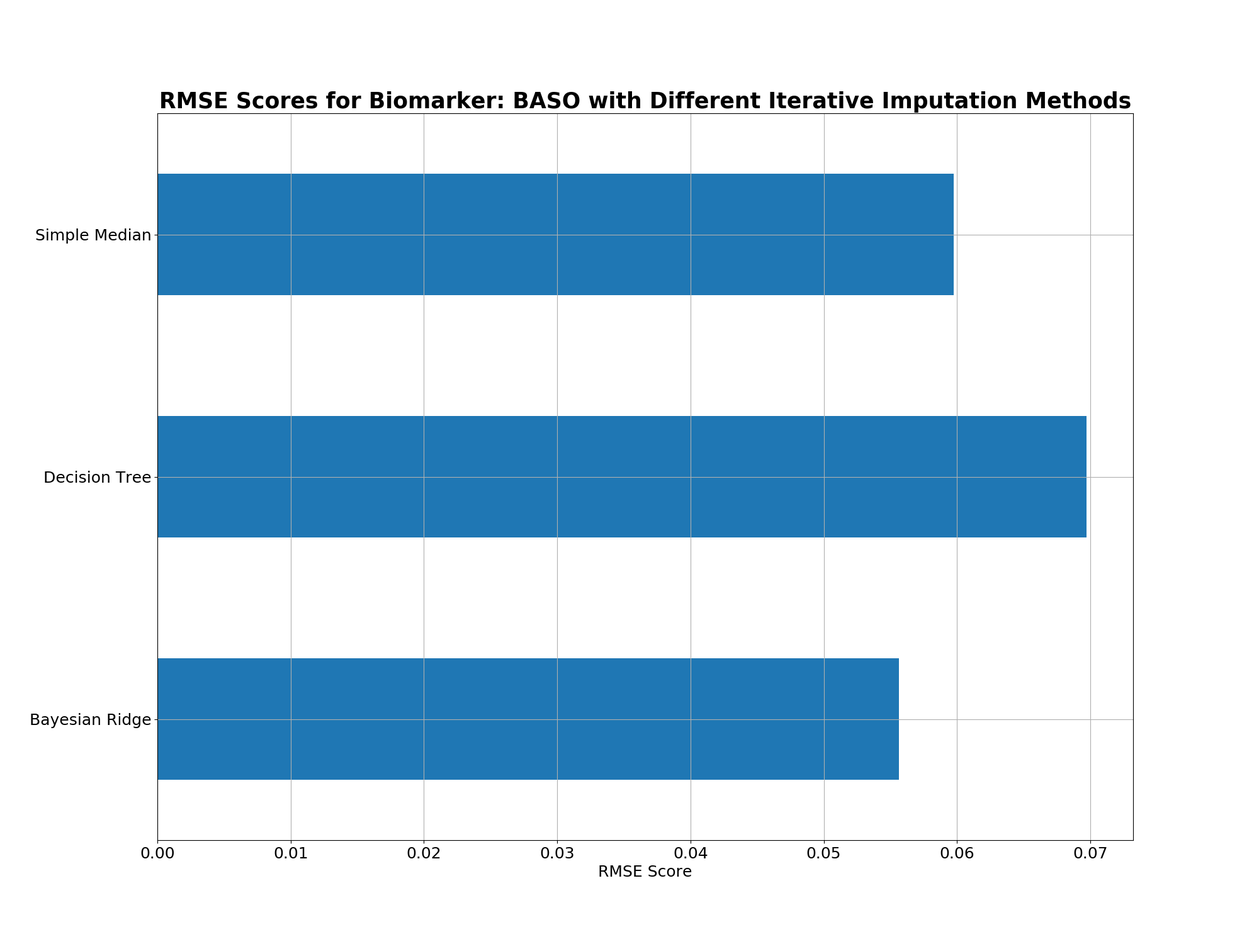
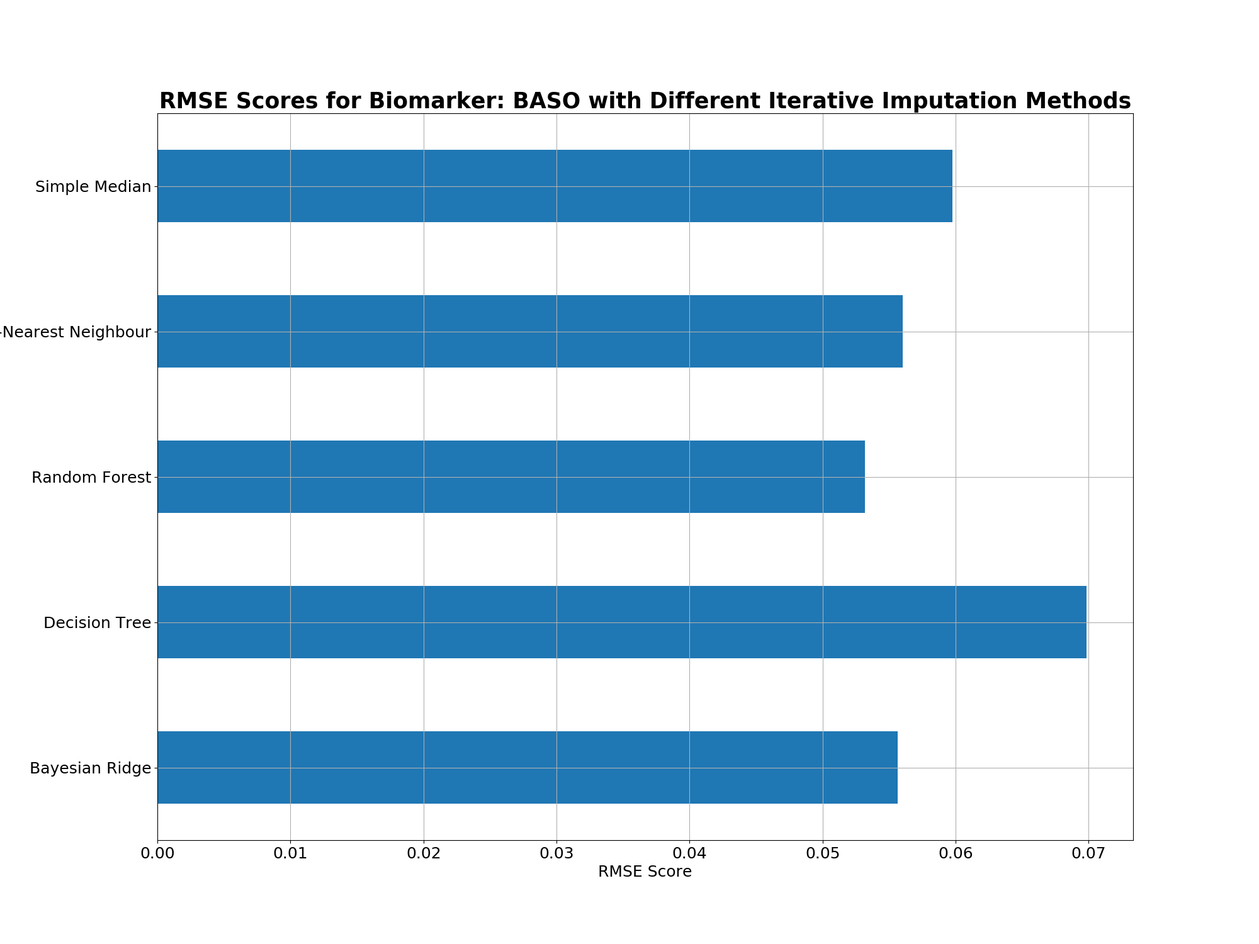
Iterative Imputer Exp I: Added RF and KNN

diff --git a/docs/searchindex.js b/docs/searchindex.js
@@ -1,1 +1,1 @@
-Search.setIndex({docnames:["_examples/iterative_imputer/index","_examples/iterative_imputer/plot_iter_imputer_exp1","_examples/iterative_imputer/sg_execution_times","_examples/load_dataset/index","_examples/load_dataset/plot_biomarkers_dist","_examples/load_dataset/plot_corr_networks","_examples/load_dataset/sg_execution_times","_examples/tutorial/index","_examples/tutorial/plot_greetings_01","_examples/tutorial/plot_sample_01","_examples/tutorial/plot_sample_02","_examples/tutorial/sg_execution_times","_examples/widgets/index","_examples/widgets/plot_tidy","_examples/widgets/sg_execution_times","index","tutorials/setup"],envversion:{"sphinx.domains.c":2,"sphinx.domains.changeset":1,"sphinx.domains.citation":1,"sphinx.domains.cpp":3,"sphinx.domains.index":1,"sphinx.domains.javascript":2,"sphinx.domains.math":2,"sphinx.domains.python":2,"sphinx.domains.rst":2,"sphinx.domains.std":1,"sphinx.ext.todo":2,sphinx:56},filenames:["_examples\\iterative_imputer\\index.rst","_examples\\iterative_imputer\\plot_iter_imputer_exp1.rst","_examples\\iterative_imputer\\sg_execution_times.rst","_examples\\load_dataset\\index.rst","_examples\\load_dataset\\plot_biomarkers_dist.rst","_examples\\load_dataset\\plot_corr_networks.rst","_examples\\load_dataset\\sg_execution_times.rst","_examples\\tutorial\\index.rst","_examples\\tutorial\\plot_greetings_01.rst","_examples\\tutorial\\plot_sample_01.rst","_examples\\tutorial\\plot_sample_02.rst","_examples\\tutorial\\sg_execution_times.rst","_examples\\widgets\\index.rst","_examples\\widgets\\plot_tidy.rst","_examples\\widgets\\sg_execution_times.rst","index.rst","tutorials\\setup.rst"],objects:{},objnames:{},objtypes:{},terms:{"000":6,"001":13,"002":13,"003":13,"004":13,"004126":1,"004903":1,"011264":1,"012952":1,"021":[1,2],"034001":1,"049":[10,11],"051146":1,"054":[9,11],"055639":1,"057":[8,11],"059771":1,"069726":1,"083004":1,"086162":5,"092396":1,"092678":1,"093414":1,"093716":1,"093729":1,"103283":1,"104":1,"114509":1,"116486":1,"118":1,"120":[9,10],"128196":1,"133":1,"141370":5,"1500":5,"159402":1,"160":11,"162450":5,"174083":5,"175840":5,"180194":1,"181283":1,"200":5,"2020":13,"203782":5,"205640":1,"212157":1,"220":5,"224849":5,"247103":5,"264927":5,"284260":5,"288058":5,"304076":1,"309988":5,"310918":5,"315870":1,"32dx":13,"333753":5,"339476":5,"347":[13,14],"347838":1,"382143":5,"382875":1,"415635":1,"416401":1,"439067":1,"453014":1,"458002":1,"472741":1,"525346":1,"568432":1,"568637":1,"595311":1,"599621":1,"614615":1,"614973":1,"626564":1,"670707":1,"676":4,"771":[5,6],"779967":1,"814143":1,"851352":1,"942473":1,"990355":1,"boolean":13,"case":16,"class":16,"import":[8,9,10,13,16],"new":4,"public":16,"return":[9,10],"true":[1,4,5,13,16],EOS:[1,4,5],For:16,IDE:16,The:16,Then:16,These:16,Ths:16,Use:[1,16],Using:[4,5],__file__:16,_build:16,_exampl:16,_examples_iterative_imput:2,_examples_load_dataset:6,_examples_tutori:11,_examples_widget:14,_uid:[1,4,5],abl:16,about:16,abov:5,abs:4,absolut:[4,16],access:16,across:1,activ:16,actual:16,add:16,addit:16,adjust:5,after:16,age:13,all:[1,4,13,16],alreadi:16,also:16,although:16,alwai:16,ani:[4,16],annot:5,annot_kw:5,appear:16,approach:16,appropri:16,arrai:1,ascend:5,autodoc:16,automat:16,avail:16,axi:[1,4,5],bahp:16,bar:1,barh:1,base:[4,16],baso:[1,4,5],bat:16,bayesian:1,bayesianridg:1,becom:16,been:16,behaviour:16,being:16,below:[7,12,16],bin:[4,5,16],biomark:[3,5,6],biomarkers_data:[1,4,5],biomarkers_df:[1,4,5],biomarkers_df_copi:4,biomarkers_df_wo_outli:4,biomarkers_highest_corr:1,biomarkers_original_df_copi:[1,5],biomarkers_to_drop:1,bit:16,black:[4,5],bold:[1,4,5],bool:5,boxplot:4,branch:16,brief:16,build:[5,16],button:16,calcul:[1,5],call:16,can:16,caption:16,celsiu:13,center:5,cfg:16,chang:16,check:16,clean:[1,16],click:[1,4,5,8,9,10,13,16],clone:16,cmap:5,code:[1,4,5,8,9,10,13],coeffici:[1,5],col:[1,4],col_po:1,color:[4,5],column:[1,4,5,13],com:16,comfort:16,command:16,complet:16,comput:[1,16],conf:16,config:16,configur:[9,16],consol:16,constant:[8,13],contain:16,content:16,convent:16,convert:1,copi:[1,4,5,16],cor:5,core:[8,16],corr:5,corr_mask:5,corr_mat:5,corr_pair:1,correl:[3,6],could:16,creat:[5,8,10,13],css:16,csv:[1,4,5,16],curr_path:16,current:16,damien:8,data:[9,13,16],datablend:13,datafram:[1,4,5,13],dataset:[3,5,6,16],date:13,deactiv:16,decis:1,decisiontreeregressor:1,deep:[1,4,5],def:[9,10],defin:[10,16],densiti:[4,5],denv:13,depend:16,descript:16,develop:16,did:16,differ:[0,1,16],directli:16,directori:16,dirti:16,displai:8,distplot:[4,5],distribut:[3,6],diverging_palett:5,do_someth:16,do_something_els:16,doc:16,don:16,doubl:16,down:16,download:[1,4,5,8,9,10,13],download_all_exampl:16,draw:5,drop:[1,4,5],dropna:[1,4,5],dtype:[5,13],duplic:13,dure:16,each:[5,16],easili:16,edge_color:5,edgecolor:[4,5],effect:16,either:16,els:1,enabl:16,enable_iterative_imput:1,encapsul:16,end:16,ensembl:1,ensur:16,enumer:1,equival:16,evalu:16,everi:[1,16],everyth:16,exampl:[1,4,5,7,8,9,10,12,13,16],examples_dir:16,execut:[2,6,8,11,14,16],exist:16,exp:[9,10],experi:[0,2],experiment:1,extratreesregressor:1,facilit:16,fals:[1,5,13,16],fbc:[1,5],fbc_code:[1,4,5],feel:16,femal:13,figsiz:[1,4,5],figur:[1,4,5],file:[2,6,11,14,16],filenamesortkei:16,filterwarn:[1,4,5],find:[1,16],first:[4,5,10,13,16],fit:1,fix:16,float64:[5,13],folder:16,follow:16,font_siz:5,fontsiz:[1,4,5],fontweight:[1,4,5],forest:1,format:16,format_microbiolog:16,format_patholog:16,frame:5,free:16,from:[3,4,5,8,13],from_pandas_edgelist:5,full:[1,4,5,8,9,10,13],fyp2020:16,fyp:16,galleri:[0,1,3,4,5,8,9,10,13,16],gallery_dir:16,gaussian:[7,11],gca:5,gender:13,gener:[0,1,3,4,5,7,8,9,10,12,13],get:16,get_loc:1,get_xlim:5,get_xticklabel:5,get_ylim:5,get_yticklabel:5,git:16,github:16,graph:[1,3,6,16],green:16,greet:[7,11],grid:[1,5],happi:16,have:16,hct:[1,4,5],heatmap:5,hello:8,help:16,helper:8,here:[1,4,5,8,9,10,13,16],hgb:[1,4,5],hidden:16,high:1,highest:1,hist_kw:[4,5],histogram:5,horizont:1,horizontalalign:5,host:16,how:16,howev:16,html:16,http:16,identifi:16,idx1:5,idx2:5,ignor:[1,4,5],iloc:1,immedi:16,imperi:16,imperial_usernam:16,implement:16,imput:2,imputed_data:1,imputed_data_og:1,imputer_estim:1,includ:[0,16],independ:1,index:[1,13,15,16],initialis:1,inplac:[1,4,5],insid:16,instanc:8,instead:16,int64:13,interest:3,invers:1,inverse_transform:1,ipynb:[1,4,5,8,9,10,13],iqr:4,isol:16,item:1,iter:[2,5],iter_imp:1,iterativeimput:[0,1],iterrow:1,its:16,jupyt:[1,4,5,8,9,10,13],just:16,kde_kw:[4,5],keep:[5,13,16],kf5:1,kfold:1,kneighborsregressor:1,later:16,layout:5,learn:16,let:[10,16],librari:[4,5,8,9,13,16],licenc:16,like:16,line_numb:16,linear_model:1,linewidth:[4,5],link:[5,16],links_filt:5,linspac:[9,10],linux:16,list:[1,4,5,16],load:[9,16],loc:1,look:16,lower_bound:4,machin:16,main:[8,9,13,16],make:[1,16],makefil:16,male:13,manag:16,maria:8,mask:5,matplotlib:[1,4,5,9,10,16],matrix:5,max:1,maxdepth:16,mch:[1,4,5],mchc:[1,4,5],mcv:[1,4,5],mean:[1,5],mean_squared_error:1,median:1,method:[1,4,5,8,9,16],metric:1,microbiolog:16,microbiology_fmt:16,might:16,min:[1,5],min_max_scal:1,min_v:5,minut:[1,4,5,8,9,10,13],miss:16,mkdir:16,model:16,model_select:1,modul:15,mono:[1,4,5],more:16,morn:8,most:16,move:16,mpv:[1,4,5],mse:1,mse_score_df:1,n_split:1,name:[1,8,16],nan:[1,4,5,13],napoleon:16,nbiomark:1,ndtype:13,nduplic:13,need:16,neighbor:1,network:[3,6],neut:[1,4,5],newli:16,node_color:5,node_s:5,none:1,normalis:1,note:16,notebook:[1,4,5,8,9,10,13],nrbca:[1,4,5],nsort:5,nstack:13,ntidi:13,number:16,numpi:[1,4,5,9,10,13,16],object:13,obtain:[1,5],off:5,often:16,onc:16,one:16,ones_lik:5,onli:[4,5],onlin:16,open:16,option:16,orang:5,order:16,other:16,otherwis:16,out:[1,5,8,13],outcom:16,output:16,over:5,own:16,packag:[8,16],page:[15,16],pair:1,panda:[1,4,5,13],panel:[1,5],paramet:[5,13],parent:16,part:16,past:16,path:[1,4,5,16],path_data:[1,4,5,16],path_micro:16,pathlib:16,patholog:16,pathology_fmt:16,pcr_dengue_serotyp:13,pdf:5,pearson:[1,5],peopl:16,perform:16,pid:[1,4,5],pip:16,pkgname:[1,5,8,13,16],pleas:16,plot:[7,11,16],plot_biomarkers_dist:[4,6],plot_corr_network:[5,6],plot_greetings_01:[8,11,16],plot_iter_imputer_exp1:[1,2],plot_roc_and_cfmatrix:16,plot_sample_01:[9,11,16],plot_sample_02:[10,11,16],plot_temporal_analysi:16,plot_tidi:[13,14],plt:[1,4,5,9,10],portion:16,pos:5,posit:5,possibl:16,power:[9,10],prefix:16,pregnant:13,preprocess:1,previou:16,print:[1,5,13],probabl:16,process:1,project:16,properli:16,pth:16,push:16,put:16,pycharm:16,pypkg:16,pyplot:[1,4,5,9,10],pytest:16,python3:16,python:[1,4,5,8,9,10,13,16],quantil:4,quickli:16,random:1,random_st:1,randomforestregressor:1,rang:[1,5],raw:[3,16],rbc:[1,4,5],rdw:[1,4,5],read:[1,4,5,16],read_csv:[1,4,5],readi:16,real:1,recent:16,recommend:16,record:[1,4,5],red:[4,5],rel:[1,4,5],relev:[4,5],rememb:16,remov:[4,5],repeat:16,repetit:16,replac:16,reponam:16,report:16,report_dupl:13,repository_nam:16,requir:16,reset_index:[1,4,5],reshap:5,result:[3,13,16],review:16,ridg:1,right:5,rmse_scor:1,rmse_score_df:1,robustscal:1,rotat:5,rst:16,run:[1,4,5,8,9,10,13],same:16,save:16,scale:1,scaler:1,scenario:16,scikit:16,scipi:4,score:[1,4],script:[1,4,5,7,8,10,11,13,16],scroll:16,seaborn:[4,5],search:15,second:[1,4,5,8,9,10,13],section:[0,3,16],see:16,select:16,self:5,separ:16,set:[1,4,5],set_xlim:5,set_xticklabel:5,set_ylim:5,set_yticklabel:5,setup:16,shape:1,should:16,show:[5,8,9,10,13],shown:16,shuffl:1,sig:[9,10],simpl:1,simpleimput:1,singl:[1,16],sklearn:[0,1],slightli:16,sns:[4,5],some:16,someth:16,sort:5,sort_valu:5,sourc:[1,4,5,8,9,10,13,16],sphinx:[0,1,3,4,5,7,8,9,10,12,13,16],sphinx_galleri:16,sphinx_gallery_conf:16,split:1,spring:5,spring_layout:5,squar:[1,5],stack:[5,13],standard:16,stat:4,statement:16,std:16,step:16,store:[1,16],strategi:1,strictli:1,string:13,structur:16,student:16,style:16,subplot:[4,5],subset:[1,4,5],suggest:16,summari:16,suptitl:4,system:16,take:16,temp_mse_score_df:1,temp_rmse_score_df:1,temporari:1,termin:16,test:1,test_df:1,test_idx:1,test_og_data:1,test_scal:1,test_scaled_copy_df:1,test_scaled_df:1,test_transformed_data:1,test_with_nan:1,thank:16,thei:16,them:16,theme:16,therefor:16,thi:[0,3,16],thing:16,thorough:16,those:16,threshold:5,through:16,thu:16,tick:16,tidi:13,tidywidget:[5,12,14],time:[1,4,5,8,9,10,13],titl:[1,5],toctre:16,tool:16,total:[1,2,4,5,6,8,9,10,11,13,14],train:[1,16],train_df:1,train_idx:1,train_scal:1,train_scaled_copy_df:1,train_scaled_df:1,trained_imput:1,transform:[1,5,13],transform_first:13,transformed_first_fbc_dataset:[1,4,5],tree:1,triu:5,tutori:11,txt:16,type:16,under:16,uniqu:1,unit:13,upper_bound:4,url:16,use:16,used:[3,16],usernam:16,using:[8,10,16],usual:16,util:[1,5,8,13,16],val_pr:1,val_scal:1,val_tru:1,valu:[4,5,10,13],var1:[1,5],var2:[1,5],variabl:16,variou:16,venv:16,veri:16,version:16,virtualenv:16,visualis:[3,4,6],vmax:5,vmin:5,vomit:13,wai:16,want:16,warn:[1,4,5],wbc:[1,4,5,13],weight:5,when:16,where:16,which:16,widget:[5,13],window:16,with_label:5,within:16,within_subsection_ord:16,work:16,would:16,write:16,xlabel:[1,4,5],xtick:[1,4,5],year:[13,16],ylabel:[4,5],you:16,your:8,yourexampl:16,ytick:[1,4,5],yyyi:16,zscore:4},titles:["Iterative Imputer","Iterative Imputer Experiment I","Computation times","Loading the data set","Biomarker distributions in dataset","Network graphs to visualise correlations","Computation times","The tutorial gallery","Plotting greetings","Plotting a gaussian (script)","Plotting a gaussian (tutorial)","Computation times","The Widgets\u2019 gallery","TidyWidget","Computation times","Welcome to fyp2020-am9717\u2019s documentation!","Tutorial"],titleterms:{"import":[1,4,5],The:[7,12],am9717:15,biomark:[1,4],code:16,combin:1,comput:[2,6,11,14],correl:[1,5],creat:16,cross:1,data:[1,3,4,5],dataset:[1,4],defin:1,distribut:4,document:[15,16],each:[1,4],edit:16,environ:16,estim:1,experi:1,fbc:4,fold:1,from:[1,16],fyp2020:15,galleri:[7,12],gaussian:[9,10],gener:16,graph:5,greet:8,histogram:4,imput:[0,1],indic:15,input:5,instal:16,iter:[0,1],librari:1,load:3,local:16,main:10,method:10,mode:16,network:5,networkx:5,now:16,obtain:4,outlier:[1,4],output:5,panel:4,pkg:16,plot:[1,4,5,8,9,10],predict:1,preprocess:4,remov:1,repositori:16,result:1,rmse:1,run:16,same:4,script:9,set:[3,16],split:5,start:16,step:4,tabl:[1,15],templat:16,test:16,tidywidget:13,time:[2,6,11,14,16],tutori:[7,10,16],using:[1,5],valid:1,valu:1,virtual:16,visualis:5,welcom:15,widget:12,without:4,your:16}})
+Search.setIndex({docnames:["_examples/iterative_imputer/index","_examples/iterative_imputer/plot_iter_imputer_exp1","_examples/iterative_imputer/sg_execution_times","_examples/load_dataset/index","_examples/load_dataset/plot_biomarkers_dist","_examples/load_dataset/plot_corr_networks","_examples/load_dataset/sg_execution_times","_examples/tutorial/index","_examples/tutorial/plot_greetings_01","_examples/tutorial/plot_sample_01","_examples/tutorial/plot_sample_02","_examples/tutorial/sg_execution_times","_examples/widgets/index","_examples/widgets/plot_tidy","_examples/widgets/sg_execution_times","index","tutorials/setup"],envversion:{"sphinx.domains.c":2,"sphinx.domains.changeset":1,"sphinx.domains.citation":1,"sphinx.domains.cpp":3,"sphinx.domains.index":1,"sphinx.domains.javascript":2,"sphinx.domains.math":2,"sphinx.domains.python":2,"sphinx.domains.rst":2,"sphinx.domains.std":1,"sphinx.ext.todo":2,sphinx:56},filenames:["_examples\\iterative_imputer\\index.rst","_examples\\iterative_imputer\\plot_iter_imputer_exp1.rst","_examples\\iterative_imputer\\sg_execution_times.rst","_examples\\load_dataset\\index.rst","_examples\\load_dataset\\plot_biomarkers_dist.rst","_examples\\load_dataset\\plot_corr_networks.rst","_examples\\load_dataset\\sg_execution_times.rst","_examples\\tutorial\\index.rst","_examples\\tutorial\\plot_greetings_01.rst","_examples\\tutorial\\plot_sample_01.rst","_examples\\tutorial\\plot_sample_02.rst","_examples\\tutorial\\sg_execution_times.rst","_examples\\widgets\\index.rst","_examples\\widgets\\plot_tidy.rst","_examples\\widgets\\sg_execution_times.rst","index.rst","tutorials\\setup.rst"],objects:{},objnames:{},objtypes:{},terms:{"000":6,"001":13,"002":13,"002688":1,"003":13,"004":13,"004062":1,"004903":1,"011264":1,"012952":1,"013879":1,"017404":1,"020811":1,"024440":1,"027304":1,"034001":1,"049":[10,11],"052259":1,"053167":1,"054":[9,11],"055639":1,"056040":1,"057":[8,11],"059771":1,"068664":1,"069847":1,"083004":1,"086162":5,"092396":1,"092678":1,"093414":1,"093716":1,"093729":1,"100864":1,"102":1,"103283":1,"104":1,"114509":1,"116":[1,2],"116369":1,"116486":1,"117208":1,"118":1,"120":[9,10],"133":1,"141370":5,"1500":5,"159402":1,"160":11,"162450":5,"167886":1,"168671":1,"174083":5,"175840":5,"180194":1,"195906":1,"196921":1,"200":5,"2020":13,"203782":5,"205640":1,"212157":1,"220":5,"224849":5,"240171":1,"240297":1,"247103":5,"261619":1,"264927":5,"281916":1,"284260":5,"288058":5,"290253":1,"296619":1,"304076":1,"309988":5,"310918":5,"323441":1,"32dx":13,"332170":1,"333753":5,"337952":1,"339476":5,"346198":1,"347":[13,14],"382143":5,"382875":1,"415635":1,"418151":1,"439067":1,"455673":1,"458002":1,"472741":1,"495352":1,"515910":1,"525346":1,"549782":1,"555787":1,"568637":1,"589642":1,"594410":1,"599621":1,"614973":1,"632582":1,"655929":1,"670707":1,"676":4,"771":[5,6],"779513":1,"835058":1,"844479":1,"854820":1,"860093":1,"879716":1,"887126":1,"942473":1,"956618":1,"981843":1,"990355":1,"boolean":13,"case":16,"class":16,"import":[8,9,10,13,16],"new":4,"public":16,"return":[9,10],"true":[1,4,5,13,16],EOS:[1,4,5],For:16,IDE:16,The:16,Then:16,These:16,Ths:16,Use:[1,16],Using:[4,5],__file__:16,_build:16,_exampl:16,_examples_iterative_imput:2,_examples_load_dataset:6,_examples_tutori:11,_examples_widget:14,_uid:[1,4,5],abl:16,about:16,abov:5,abs:4,absolut:[4,16],access:16,across:1,activ:16,actual:16,add:16,addit:16,adjust:5,after:16,age:13,all:[1,4,13,16],alreadi:16,also:16,although:16,alwai:16,ani:[4,16],annot:5,annot_kw:5,appear:16,approach:16,appropri:16,arrai:1,ascend:5,autodoc:16,automat:16,avail:16,axi:[1,4,5],bahp:16,bar:1,barh:1,base:[4,16],baso:[1,4,5],bat:16,bayesian:1,bayesianridg:1,becom:16,been:16,behaviour:16,being:16,below:[7,12,16],bin:[4,5,16],biomark:[3,5,6],biomarkers_data:[1,4,5],biomarkers_df:[1,4,5],biomarkers_df_copi:4,biomarkers_df_wo_outli:4,biomarkers_highest_corr:1,biomarkers_original_df_copi:[1,5],biomarkers_to_drop:1,bit:16,black:[4,5],bold:[1,4,5],bool:5,boxplot:4,branch:16,brief:16,build:[5,16],button:16,calcul:[1,5],call:16,can:16,caption:16,celsiu:13,center:5,cfg:16,chang:16,check:16,clean:[1,16],click:[1,4,5,8,9,10,13,16],clone:16,cmap:5,code:[1,4,5,8,9,10,13],coeffici:[1,5],col:[1,4],col_po:1,color:[4,5],column:[1,4,5,13],com:16,comfort:16,command:16,complet:16,comput:[1,16],conf:16,config:16,configur:[9,16],consol:16,constant:[8,13],contain:16,content:16,convent:16,convert:1,copi:[1,4,5,16],cor:5,core:[8,16],corr:5,corr_mask:5,corr_mat:5,corr_pair:1,correl:[3,6],could:16,creat:[5,8,10,13],css:16,csv:[1,4,5,16],curr_path:16,current:16,damien:8,data:[9,13,16],datablend:13,datafram:[1,4,5,13],dataset:[3,5,6,16],date:13,deactiv:16,decis:1,decisiontreeregressor:1,deep:[1,4,5],def:[9,10],defin:[10,16],densiti:[4,5],denv:13,depend:16,descript:16,develop:16,did:16,differ:[0,1,16],directli:16,directori:16,dirti:16,displai:8,distanc:1,distplot:[4,5],distribut:[3,6],diverging_palett:5,do_someth:16,do_something_els:16,doc:16,don:16,doubl:16,down:16,download:[1,4,5,8,9,10,13],download_all_exampl:16,draw:5,drop:[1,4,5],dropna:[1,4,5],dtype:[5,13],duplic:13,dure:16,each:[5,16],easili:16,edge_color:5,edgecolor:[4,5],effect:16,either:16,els:1,enabl:16,enable_iterative_imput:1,encapsul:16,end:16,ensembl:1,ensur:16,enumer:1,equival:16,evalu:16,everi:[1,16],everyth:16,exampl:[1,4,5,7,8,9,10,12,13,16],examples_dir:16,execut:[2,6,8,11,14,16],exist:16,exp:[9,10],experi:[0,2],experiment:1,extratreesregressor:1,facilit:16,fals:[1,5,13,16],fbc:[1,5],fbc_code:[1,4,5],feel:16,femal:13,figsiz:[1,4,5],figur:[1,4,5],file:[2,6,11,14,16],filenamesortkei:16,filterwarn:[1,4,5],find:[1,16],first:[4,5,10,13,16],fit:1,fix:16,float64:[5,13],folder:16,follow:16,font_siz:5,fontsiz:[1,4,5],fontweight:[1,4,5],forest:1,format:16,format_microbiolog:16,format_patholog:16,frame:5,free:16,from:[3,4,5,8,13],from_pandas_edgelist:5,full:[1,4,5,8,9,10,13],fyp2020:16,fyp:16,galleri:[0,1,3,4,5,8,9,10,13,16],gallery_dir:16,gaussian:[7,11],gca:5,gender:13,gener:[0,1,3,4,5,7,8,9,10,12,13],get:16,get_loc:1,get_xlim:5,get_xticklabel:5,get_ylim:5,get_yticklabel:5,git:16,github:16,graph:[1,3,6,16],green:16,greet:[7,11],grid:[1,5],happi:16,have:16,hct:[1,4,5],heatmap:5,hello:8,help:16,helper:8,here:[1,4,5,8,9,10,13,16],hgb:[1,4,5],hidden:16,high:1,highest:1,hist_kw:[4,5],histogram:5,horizont:1,horizontalalign:5,host:16,how:16,howev:16,html:16,http:16,identifi:16,idx1:5,idx2:5,ignor:[1,4,5],iloc:1,immedi:16,imperi:16,imperial_usernam:16,implement:16,imput:2,imputed_data:1,imputed_data_og:1,imputer_estim:1,includ:[0,16],independ:1,index:[1,13,15,16],initialis:1,inplac:[1,4,5],insid:16,instanc:8,instead:16,int64:13,interest:3,invers:1,inverse_transform:1,ipynb:[1,4,5,8,9,10,13],iqr:4,isol:16,item:1,iter:[2,5],iter_imp:1,iterativeimput:[0,1],iterrow:1,its:16,jupyt:[1,4,5,8,9,10,13],just:16,kde_kw:[4,5],keep:[5,13,16],kf5:1,kfold:1,kneighborsregressor:1,later:16,layout:5,learn:16,let:[10,16],librari:[4,5,8,9,13,16],licenc:16,like:16,line_numb:16,linear_model:1,linewidth:[4,5],link:[5,16],links_filt:5,linspac:[9,10],linux:16,list:[1,4,5,16],load:[9,16],loc:1,look:16,lower_bound:4,machin:16,main:[8,9,13,16],make:[1,16],makefil:16,male:13,manag:16,maria:8,mask:5,matplotlib:[1,4,5,9,10,16],matrix:5,max:1,maxdepth:16,mch:[1,4,5],mchc:[1,4,5],mcv:[1,4,5],mean:[1,5],mean_squared_error:1,median:1,method:[1,4,5,8,9,16],metric:1,microbiolog:16,microbiology_fmt:16,might:16,min:[1,5],min_max_scal:1,min_v:5,minut:[1,4,5,8,9,10,13],miss:16,mkdir:16,model:16,model_select:1,modul:15,mono:[1,4,5],more:16,morn:8,most:16,move:16,mpv:[1,4,5],mse:1,mse_score_df:1,n_split:1,name:[1,8,16],nan:[1,4,5,13],napoleon:16,nbiomark:1,ndtype:13,nduplic:13,nearest:1,need:16,neighbor:1,neighbour:1,network:[3,6],neut:[1,4,5],newli:16,node_color:5,node_s:5,none:1,normalis:1,note:16,notebook:[1,4,5,8,9,10,13],nrbca:[1,4,5],nsort:5,nstack:13,ntidi:13,number:16,numpi:[1,4,5,9,10,13,16],object:13,obtain:[1,5],off:5,often:16,onc:16,one:16,ones_lik:5,onli:[4,5],onlin:16,open:16,option:16,orang:5,order:16,other:16,otherwis:16,out:[1,5,8,13],outcom:16,output:16,over:5,own:16,packag:[8,16],page:[15,16],pair:1,panda:[1,4,5,13],panel:[1,5],paramet:[5,13],parent:16,part:16,past:16,path:[1,4,5,16],path_data:[1,4,5,16],path_micro:16,pathlib:16,patholog:16,pathology_fmt:16,pcr_dengue_serotyp:13,pdf:5,pearson:[1,5],peopl:16,perform:16,pid:[1,4,5],pip:16,pkgname:[1,5,8,13,16],pleas:16,plot:[7,11,16],plot_biomarkers_dist:[4,6],plot_corr_network:[5,6],plot_greetings_01:[8,11,16],plot_iter_imputer_exp1:[1,2],plot_roc_and_cfmatrix:16,plot_sample_01:[9,11,16],plot_sample_02:[10,11,16],plot_temporal_analysi:16,plot_tidi:[13,14],plt:[1,4,5,9,10],portion:16,pos:5,posit:5,possibl:16,power:[9,10],prefix:16,pregnant:13,preprocess:1,previou:16,print:[1,5,13],probabl:16,process:1,project:16,properli:16,pth:16,push:16,put:16,pycharm:16,pypkg:16,pyplot:[1,4,5,9,10],pytest:16,python3:16,python:[1,4,5,8,9,10,13,16],quantil:4,quickli:16,random:1,random_st:1,randomforestregressor:1,rang:[1,5],raw:[3,16],rbc:[1,4,5],rdw:[1,4,5],read:[1,4,5,16],read_csv:[1,4,5],readi:16,real:1,recent:16,recommend:16,record:[1,4,5],red:[4,5],rel:[1,4,5],relev:[4,5],rememb:16,remov:[4,5],repeat:16,repetit:16,replac:16,reponam:16,report:16,report_dupl:13,repository_nam:16,requir:16,reset_index:[1,4,5],reshap:5,result:[3,13,16],review:16,ridg:1,right:5,rmse_scor:1,rmse_score_df:1,robustscal:1,rotat:5,rst:16,run:[1,4,5,8,9,10,13],same:16,save:16,scale:1,scaler:1,scenario:16,scikit:16,scipi:4,score:[1,4],script:[1,4,5,7,8,10,11,13,16],scroll:16,seaborn:[4,5],search:15,second:[1,4,5,8,9,10,13],section:[0,3,16],see:16,select:16,self:5,separ:16,set:[1,4,5],set_xlim:5,set_xticklabel:5,set_ylim:5,set_yticklabel:5,setup:16,shape:1,should:16,show:[5,8,9,10,13],shown:16,shuffl:1,sig:[9,10],simpl:1,simpleimput:1,singl:[1,16],sklearn:[0,1],slightli:16,sns:[4,5],some:16,someth:16,sort:5,sort_valu:5,sourc:[1,4,5,8,9,10,13,16],sphinx:[0,1,3,4,5,7,8,9,10,12,13,16],sphinx_galleri:16,sphinx_gallery_conf:16,split:1,spring:5,spring_layout:5,squar:[1,5],stack:[5,13],standard:16,stat:4,statement:16,std:16,step:16,store:[1,16],strategi:1,strictli:1,string:13,structur:16,student:16,style:16,subplot:[4,5],subset:[1,4,5],suggest:16,summari:16,suptitl:4,system:16,take:16,temp_mse_score_df:1,temp_rmse_score_df:1,temporari:1,termin:16,test:1,test_df:1,test_idx:1,test_og_data:1,test_scal:1,test_scaled_copy_df:1,test_scaled_df:1,test_transformed_data:1,test_with_nan:1,thank:16,thei:16,them:16,theme:16,therefor:16,thi:[0,3,16],thing:16,thorough:16,those:16,threshold:5,through:16,thu:16,tick:16,tidi:13,tidywidget:[5,12,14],time:[1,4,5,8,9,10,13],titl:[1,5],toctre:16,tool:16,total:[1,2,4,5,6,8,9,10,11,13,14],train:[1,16],train_df:1,train_idx:1,train_scal:1,train_scaled_copy_df:1,train_scaled_df:1,trained_imput:1,transform:[1,5,13],transform_first:13,transformed_first_fbc_dataset:[1,4,5],tree:1,triu:5,tutori:11,txt:16,type:16,under:16,uniqu:1,unit:13,upper_bound:4,url:16,use:16,used:[3,16],usernam:16,using:[8,10,16],usual:16,util:[1,5,8,13,16],val_pr:1,val_scal:1,val_tru:1,valu:[4,5,10,13],var1:[1,5],var2:[1,5],variabl:16,variou:16,venv:16,veri:16,version:16,virtualenv:16,visualis:[3,4,6],vmax:5,vmin:5,vomit:13,wai:16,want:16,warn:[1,4,5],wbc:[1,4,5,13],weight:[1,5],when:16,where:16,which:16,widget:[5,13],window:16,with_label:5,within:16,within_subsection_ord:16,work:16,would:16,write:16,xlabel:[1,4,5],xtick:[1,4,5],year:[13,16],ylabel:[4,5],you:16,your:8,yourexampl:16,ytick:[1,4,5],yyyi:16,zscore:4},titles:["Iterative Imputer","Iterative Imputer Experiment I","Computation times","Loading the data set","Biomarker distributions in dataset","Network graphs to visualise correlations","Computation times","The tutorial gallery","Plotting greetings","Plotting a gaussian (script)","Plotting a gaussian (tutorial)","Computation times","The Widgets\u2019 gallery","TidyWidget","Computation times","Welcome to fyp2020-am9717\u2019s documentation!","Tutorial"],titleterms:{"import":[1,4,5],The:[7,12],am9717:15,biomark:[1,4],code:16,combin:1,comput:[2,6,11,14],correl:[1,5],creat:16,cross:1,data:[1,3,4,5],dataset:[1,4],defin:1,distribut:4,document:[15,16],each:[1,4],edit:16,environ:16,estim:1,experi:1,fbc:4,fold:1,from:[1,16],fyp2020:15,galleri:[7,12],gaussian:[9,10],gener:16,graph:5,greet:8,histogram:4,imput:[0,1],indic:15,input:5,instal:16,iter:[0,1],librari:1,load:3,local:16,main:10,method:10,mode:16,network:5,networkx:5,now:16,obtain:4,outlier:[1,4],output:5,panel:4,pkg:16,plot:[1,4,5,8,9,10],predict:1,preprocess:4,remov:1,repositori:16,result:1,rmse:1,run:16,same:4,script:9,set:[3,16],split:5,start:16,step:4,tabl:[1,15],templat:16,test:16,tidywidget:13,time:[2,6,11,14,16],tutori:[7,10,16],using:[1,5],valid:1,valu:1,virtual:16,visualis:5,welcom:15,widget:12,without:4,your:16}})

diff --git a/docs/_examples/iterative_imputer/plot_iter_imputer_exp1.html b/docs/_examples/iterative_imputer/plot_iter_imputer_exp1.html
@@ -337,10 +337,12 @@ K-Fold Cross Validation.</p>
 105
 106
 107
-108</pre></div></td><td class="code"><div class="highlight"><pre><span></span> <span class="n">estimators</span> <span class="o">=</span> <span class="p">{</span>
+108
+109</pre></div></td><td class="code"><div class="highlight"><pre><span></span> <span class="n">estimators</span> <span class="o">=</span> <span class="p">{</span>
      <span class="s1">&#39;Bayesian Ridge&#39;</span><span class="p">:</span> <span class="n">BayesianRidge</span><span class="p">(),</span>
      <span class="s1">&#39;Decision Tree&#39;</span><span class="p">:</span> <span class="n">DecisionTreeRegressor</span><span class="p">(),</span>
-     <span class="c1"># &#39;Random Forest&#39;: ExtraTreesRegressor(),</span>
+     <span class="s1">&#39;Random Forest&#39;</span><span class="p">:</span> <span class="n">ExtraTreesRegressor</span><span class="p">(),</span>
+     <span class="s1">&#39;K-Nearest Neighbour&#39;</span><span class="p">:</span> <span class="n">KNeighborsRegressor</span><span class="p">(</span><span class="n">weights</span><span class="o">=</span><span class="s1">&#39;distance&#39;</span><span class="p">),</span>
      <span class="s1">&#39;Simple Median&#39;</span><span class="p">:</span> <span class="n">SimpleImputer</span><span class="p">(</span><span class="n">strategy</span><span class="o">=</span><span class="s1">&#39;median&#39;</span><span class="p">),</span>
  <span class="p">}</span>
 </pre></div>
@@ -348,8 +350,7 @@ K-Fold Cross Validation.</p>
 </div>
 <div class="section" id="predict-values-using-imputer">
 <h2>Predict values using imputer<a class="headerlink" href="#predict-values-using-imputer" title="Permalink to this headline">¶</a></h2>
-<div class="highlight-default notranslate"><table class="highlighttable"><tr><td class="linenos"><div class="linenodiv"><pre>115
-116
+<div class="highlight-default notranslate"><table class="highlighttable"><tr><td class="linenos"><div class="linenodiv"><pre>116
 117
 118
 119
@@ -410,7 +411,8 @@ K-Fold Cross Validation.</p>
 174
 175
 176
-177</pre></div></td><td class="code"><div class="highlight"><pre><span></span> <span class="c1"># Run 5-fold CV for each estimator method</span>
+177
+178</pre></div></td><td class="code"><div class="highlight"><pre><span></span> <span class="c1"># Run 5-fold CV for each estimator method</span>
  <span class="k">for</span> <span class="n">method</span><span class="p">,</span> <span class="n">imputer_estimator</span> <span class="ow">in</span> <span class="n">estimators</span><span class="o">.</span><span class="n">items</span><span class="p">():</span>
      <span class="k">for</span> <span class="n">k</span><span class="p">,</span> <span class="p">(</span><span class="n">train_idx</span><span class="p">,</span> <span class="n">test_idx</span><span class="p">)</span> <span class="ow">in</span> <span class="nb">enumerate</span><span class="p">(</span><span class="n">kf5</span><span class="o">.</span><span class="n">split</span><span class="p">(</span><span class="n">biomarkers_data</span><span class="p">)):</span>
 
@@ -478,7 +480,7 @@ K-Fold Cross Validation.</p>
 </div>
 <div class="section" id="table-of-results">
 <h2>Table of results<a class="headerlink" href="#table-of-results" title="Permalink to this headline">¶</a></h2>
-<div class="highlight-default notranslate"><table class="highlighttable"><tr><td class="linenos"><div class="linenodiv"><pre>184</pre></div></td><td class="code"><div class="highlight"><pre><span></span> <span class="n">rmse_score_df</span>
+<div class="highlight-default notranslate"><table class="highlighttable"><tr><td class="linenos"><div class="linenodiv"><pre>185</pre></div></td><td class="code"><div class="highlight"><pre><span></span> <span class="n">rmse_score_df</span>
 </pre></div>
 </td></tr></table></div>
 <div class="output_subarea output_html rendered_html output_result">
@@ -502,10 +504,14 @@ K-Fold Cross Validation.</p>
       <th></th>
       <th>Bayesian Ridge</th>
       <th>Decision Tree</th>
+      <th>Random Forest</th>
+      <th>K-Nearest Neighbour</th>
       <th>Simple Median</th>
     </tr>
     <tr>
       <th>Biomarker</th>
+      <th></th>
+      <th></th>
       <th></th>
       <th></th>
       <th></th>
@@ -515,97 +521,129 @@ K-Fold Cross Validation.</p>
     <tr>
       <th>EOS</th>
       <td>0.092396</td>
-      <td>0.315870</td>
+      <td>0.323441</td>
+      <td>0.261619</td>
+      <td>0.290253</td>
       <td>0.304076</td>
     </tr>
     <tr>
       <th>MONO</th>
       <td>0.092678</td>
-      <td>0.347838</td>
+      <td>0.337952</td>
+      <td>0.240171</td>
+      <td>0.346198</td>
       <td>0.439067</td>
     </tr>
     <tr>
       <th>BASO</th>
       <td>0.055639</td>
-      <td>0.069726</td>
+      <td>0.069847</td>
+      <td>0.053167</td>
+      <td>0.056040</td>
       <td>0.059771</td>
     </tr>
     <tr>
       <th>NEUT</th>
       <td>0.093414</td>
-      <td>1.779967</td>
+      <td>1.879716</td>
+      <td>1.835058</td>
+      <td>1.981843</td>
       <td>4.670707</td>
     </tr>
     <tr>
       <th>RBC</th>
       <td>0.103283</td>
-      <td>0.051146</td>
+      <td>0.052259</td>
+      <td>0.027304</td>
+      <td>0.196921</td>
       <td>0.942473</td>
     </tr>
     <tr>
       <th>WBC</th>
       <td>0.093716</td>
-      <td>1.851352</td>
+      <td>1.844479</td>
+      <td>1.555787</td>
+      <td>2.068664</td>
       <td>5.568637</td>
     </tr>
     <tr>
       <th>MCHC</th>
       <td>7.525346</td>
-      <td>3.814143</td>
+      <td>4.020811</td>
+      <td>2.887126</td>
+      <td>8.168671</td>
       <td>40.415635</td>
     </tr>
     <tr>
       <th>MCV</th>
       <td>1.614973</td>
-      <td>0.614615</td>
+      <td>0.655929</td>
+      <td>0.515910</td>
+      <td>2.495352</td>
       <td>13.382875</td>
     </tr>
     <tr>
       <th>LY</th>
       <td>0.093729</td>
-      <td>1.595311</td>
+      <td>1.779513</td>
+      <td>1.240297</td>
+      <td>0.956618</td>
       <td>2.212157</td>
     </tr>
     <tr>
       <th>HCT</th>
       <td>0.004903</td>
-      <td>0.004126</td>
+      <td>0.004062</td>
+      <td>0.002688</td>
+      <td>0.017404</td>
       <td>0.083004</td>
     </tr>
     <tr>
       <th>RDW</th>
       <td>2.034001</td>
-      <td>2.626564</td>
+      <td>2.632582</td>
+      <td>1.854820</td>
+      <td>2.024440</td>
       <td>2.990355</td>
     </tr>
     <tr>
       <th>HGB</th>
       <td>2.012952</td>
-      <td>1.453014</td>
+      <td>1.455673</td>
+      <td>1.013879</td>
+      <td>5.549782</td>
       <td>27.205640</td>
     </tr>
     <tr>
       <th>MCH</th>
       <td>0.458002</td>
-      <td>0.416401</td>
+      <td>0.418151</td>
+      <td>0.296619</td>
+      <td>0.860093</td>
       <td>4.472741</td>
     </tr>
     <tr>
       <th>PLT</th>
       <td>104.011264</td>
-      <td>133.128196</td>
+      <td>133.332170</td>
+      <td>93.281916</td>
+      <td>102.594410</td>
       <td>118.180194</td>
     </tr>
     <tr>
       <th>MPV</th>
       <td>1.159402</td>
-      <td>1.568432</td>
+      <td>1.589642</td>
+      <td>1.100864</td>
+      <td>1.195906</td>
       <td>1.599621</td>
     </tr>
     <tr>
       <th>NRBCA</th>
       <td>0.116486</td>
-      <td>0.181283</td>
+      <td>0.167886</td>
+      <td>0.116369</td>
+      <td>0.117208</td>
       <td>0.114509</td>
     </tr>
   </tbody>
@@ -616,14 +654,14 @@ K-Fold Cross Validation.</p>
 <br /></div>
 <div class="section" id="combined-rmse-plot-for-each-biomarker">
 <h2>Combined RMSE Plot for each biomarker<a class="headerlink" href="#combined-rmse-plot-for-each-biomarker" title="Permalink to this headline">¶</a></h2>
-<div class="highlight-default notranslate"><table class="highlighttable"><tr><td class="linenos"><div class="linenodiv"><pre>191
-192
+<div class="highlight-default notranslate"><table class="highlighttable"><tr><td class="linenos"><div class="linenodiv"><pre>192
 193
 194
 195
 196
 197
-198</pre></div></td><td class="code"><div class="highlight"><pre><span></span> <span class="c1"># Plot horizontal bar graph</span>
+198
+199</pre></div></td><td class="code"><div class="highlight"><pre><span></span> <span class="c1"># Plot horizontal bar graph</span>
  <span class="k">for</span> <span class="n">biomarker</span><span class="p">,</span> <span class="n">scores</span> <span class="ow">in</span> <span class="n">rmse_score_df</span><span class="o">.</span><span class="n">iterrows</span><span class="p">():</span>
      <span class="n">plt</span><span class="o">.</span><span class="n">figure</span><span class="p">(</span><span class="n">figsize</span><span class="o">=</span><span class="p">(</span><span class="mi">20</span><span class="p">,</span><span class="mi">15</span><span class="p">))</span>
      <span class="n">plt</span><span class="o">.</span><span class="n">title</span><span class="p">(</span><span class="sa">f</span><span class="s1">&#39;RMSE Scores for Biomarker: </span><span class="si">{biomarker}</span><span class="s1"> with Different Iterative Imputation Methods&#39;</span><span class="p">,</span> <span class="n">fontweight</span><span class="o">=</span><span class="s1">&#39;bold&#39;</span><span class="p">,</span> <span class="n">fontsize</span><span class="o">=</span><span class="mi">25</span><span class="p">)</span>
@@ -667,7 +705,7 @@ K-Fold Cross Validation.</p>
 <li><img alt="RMSE Scores for Biomarker: NRBCA with Different Iterative Imputation Methods" class="sphx-glr-multi-img" src="../../_images/sphx_glr_plot_iter_imputer_exp1_016.png" />
 </li>
 </ul>
-<p class="sphx-glr-timing"><strong>Total running time of the script:</strong> ( 1 minutes  48.021 seconds)</p>
+<p class="sphx-glr-timing"><strong>Total running time of the script:</strong> ( 65 minutes  40.116 seconds)</p>
 <div class="sphx-glr-footer class sphx-glr-footer-example docutils container" id="sphx-glr-download-examples-iterative-imputer-plot-iter-imputer-exp1-py">
 <div class="sphx-glr-download sphx-glr-download-python docutils container">
 <p><a class="reference download internal" download="" href="../../_downloads/2a01ce5b96ea580daad5e568559ad093/plot_iter_imputer_exp1.py"><code class="xref download docutils literal notranslate"><span class="pre">Download</span> <span class="pre">Python</span> <span class="pre">source</span> <span class="pre">code:</span> <span class="pre">plot_iter_imputer_exp1.py</span></code></a></p>

diff --git a/docs/_examples/iterative_imputer/sg_execution_times.html b/docs/_examples/iterative_imputer/sg_execution_times.html
@@ -165,7 +165,7 @@
             
   <div class="section" id="computation-times">
 <span id="sphx-glr-examples-iterative-imputer-sg-execution-times"></span><h1>Computation times<a class="headerlink" href="#computation-times" title="Permalink to this headline">¶</a></h1>
-<p><strong>01:48.021</strong> total execution time for <strong>_examples_iterative_imputer</strong> files:</p>
+<p><strong>65:40.116</strong> total execution time for <strong>_examples_iterative_imputer</strong> files:</p>
 <table class="docutils align-default">
 <colgroup>
 <col style="width: 84%" />
@@ -174,7 +174,7 @@
 </colgroup>
 <tbody>
 <tr class="row-odd"><td><p><a class="reference internal" href="plot_iter_imputer_exp1.html#sphx-glr-examples-iterative-imputer-plot-iter-imputer-exp1-py"><span class="std std-ref">Iterative Imputer Experiment I</span></a> (<code class="docutils literal notranslate"><span class="pre">plot_iter_imputer_exp1.py</span></code>)</p></td>
-<td><p>01:48.021</p></td>
+<td><p>65:40.116</p></td>
 <td><p>0.0 MB</p></td>
 </tr>
 </tbody>

diff --git a/docs/_downloads/2a01ce5b96ea580daad5e568559ad093/plot_iter_imputer_exp1.py b/docs/_downloads/2a01ce5b96ea580daad5e568559ad093/plot_iter_imputer_exp1.py
@@ -103,7 +103,8 @@ temp_rmse_score_df = rmse_score_df.copy(deep=True)
 estimators = {
     'Bayesian Ridge': BayesianRidge(),
     'Decision Tree': DecisionTreeRegressor(),
-    # 'Random Forest': ExtraTreesRegressor(),
+    'Random Forest': ExtraTreesRegressor(),
+    'K-Nearest Neighbour': KNeighborsRegressor(weights='distance'),
     'Simple Median': SimpleImputer(strategy='median'),
 }
 
